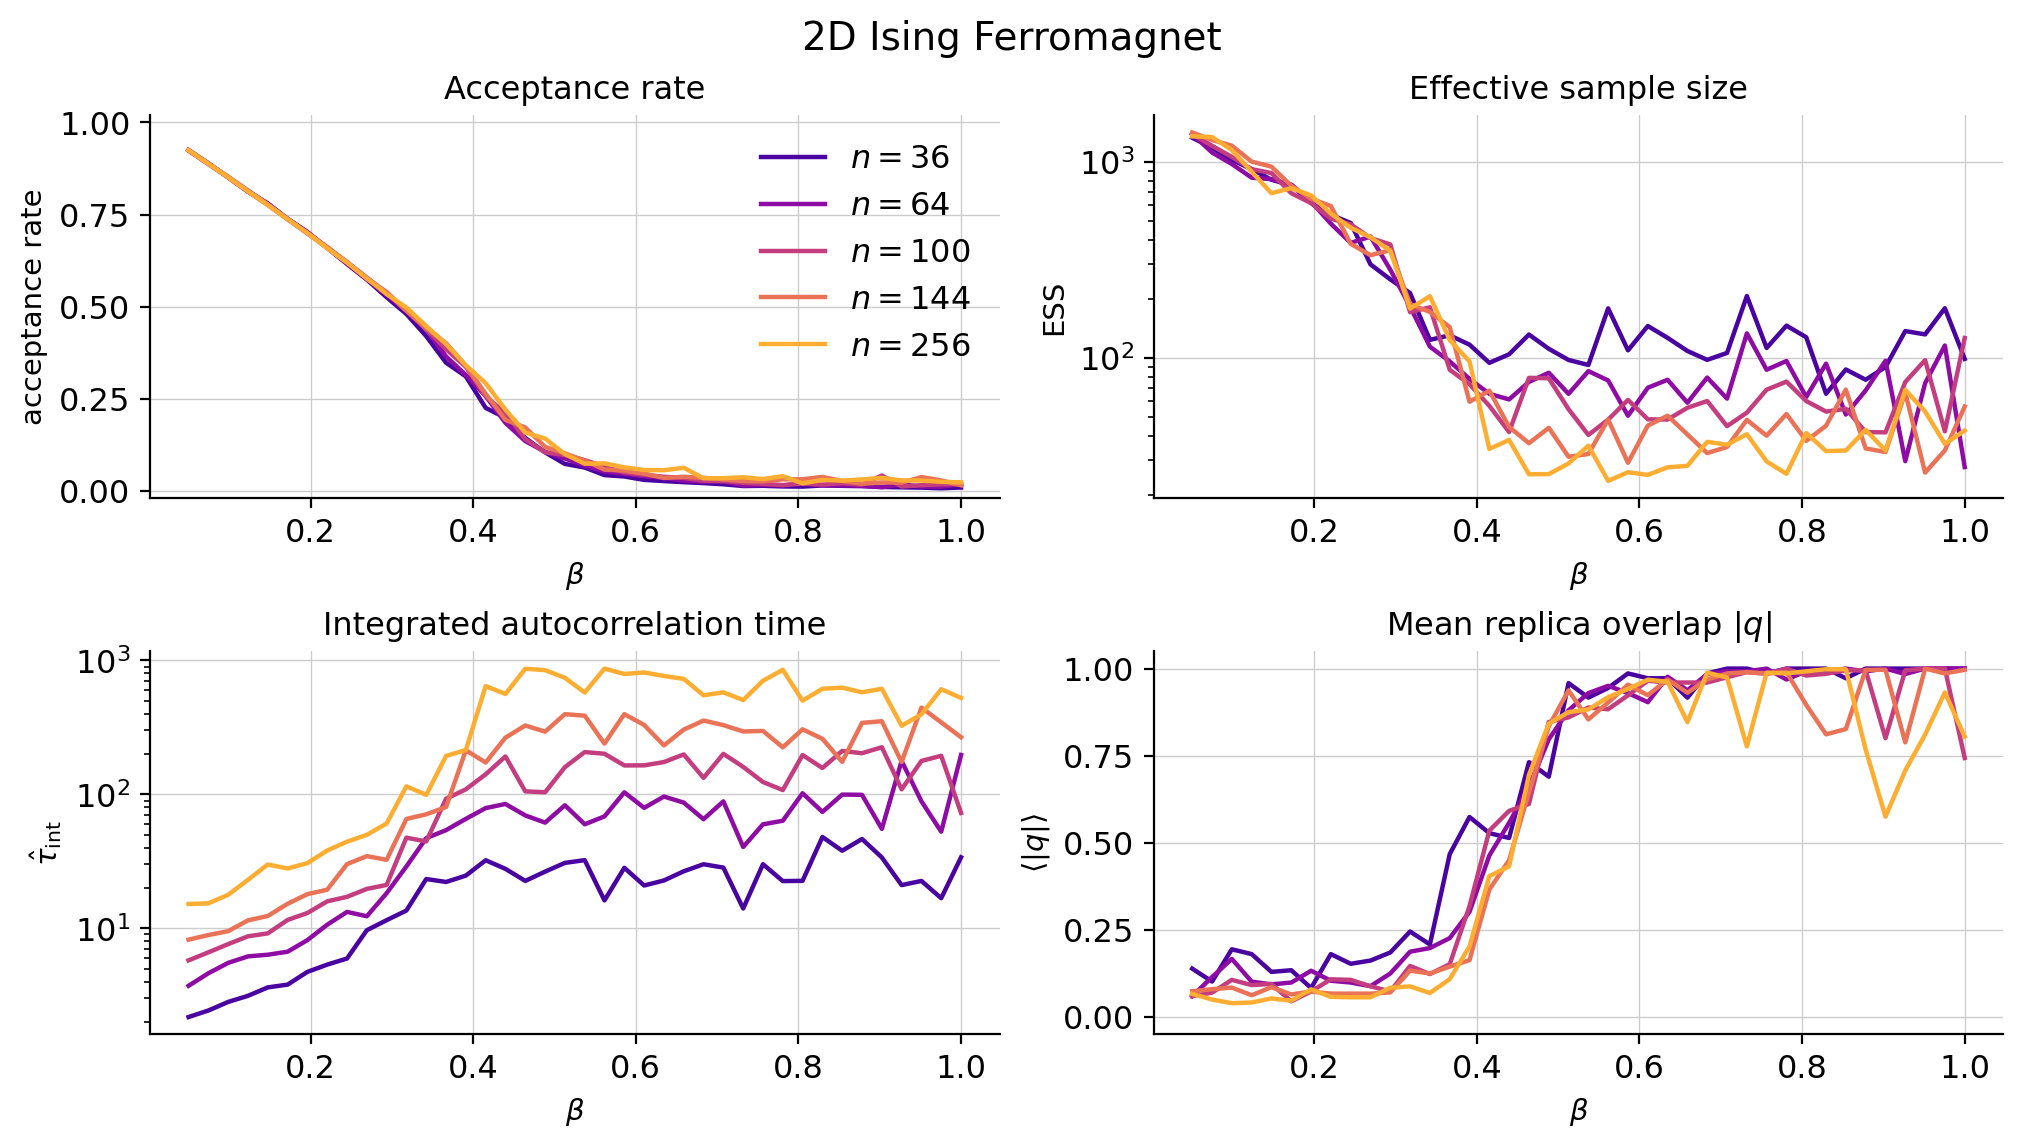
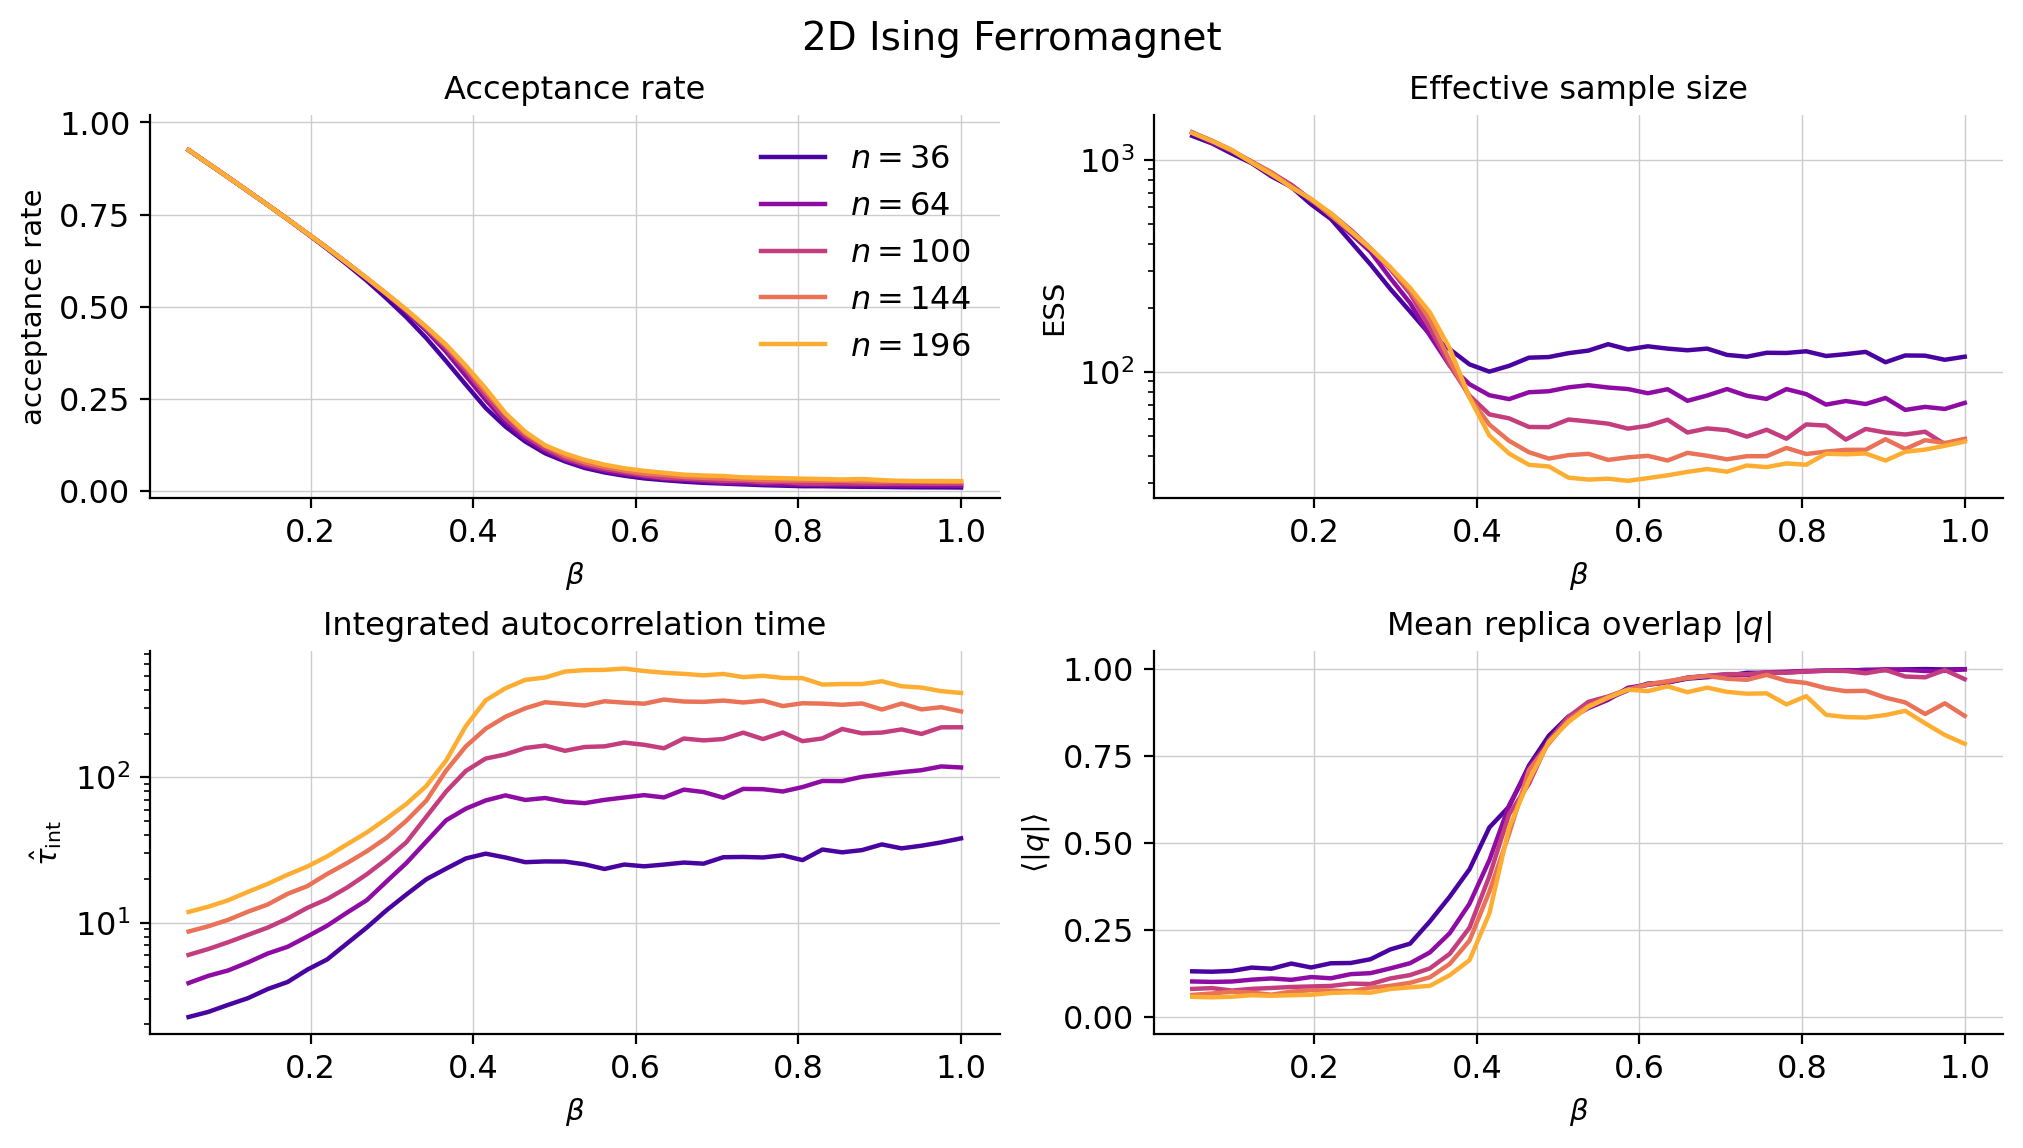
Trim preliminary scaling max size to L=14

diff --git a/preliminary_analysis.py b/preliminary_analysis.py
@@ -30,7 +30,7 @@ N_BETAS = 40
 
 # uniform beta grid covering disordered -> ordered regimes of 2d ising
 BETAS = np.round(np.linspace(0.05, 1.00, N_BETAS), 4).tolist()
-SIZES = [6, 8, 10, 12, 16]
+SIZES = [6, 8, 10, 12, 14]
 MODEL_NAME = "2D Ising Ferromagnet"
 
 # aggregate per-(beta, disorder) rows into mean/std across disorders for each beta